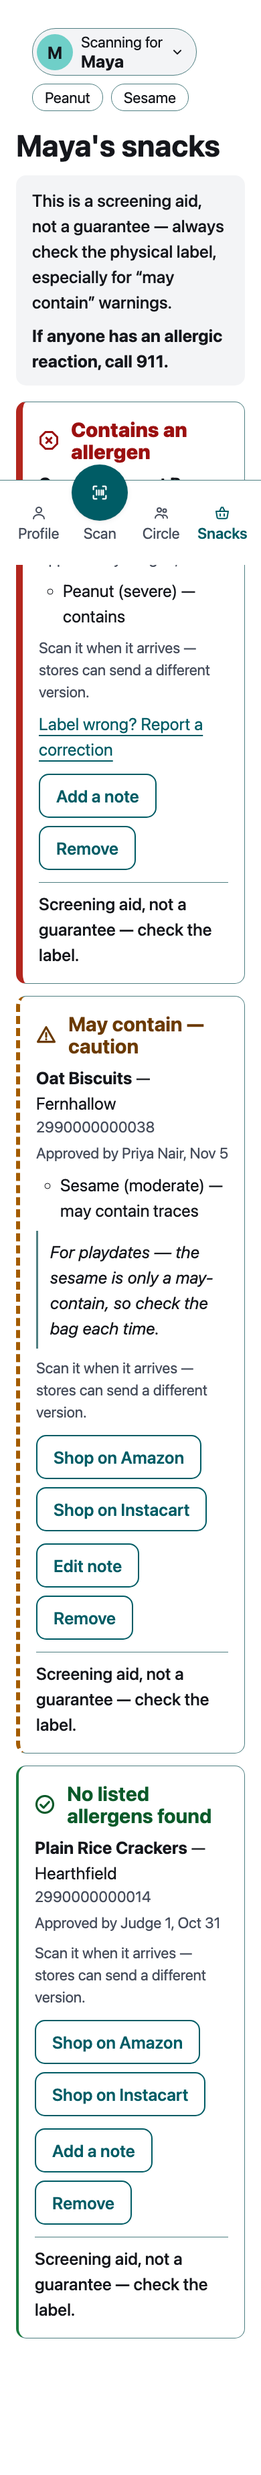
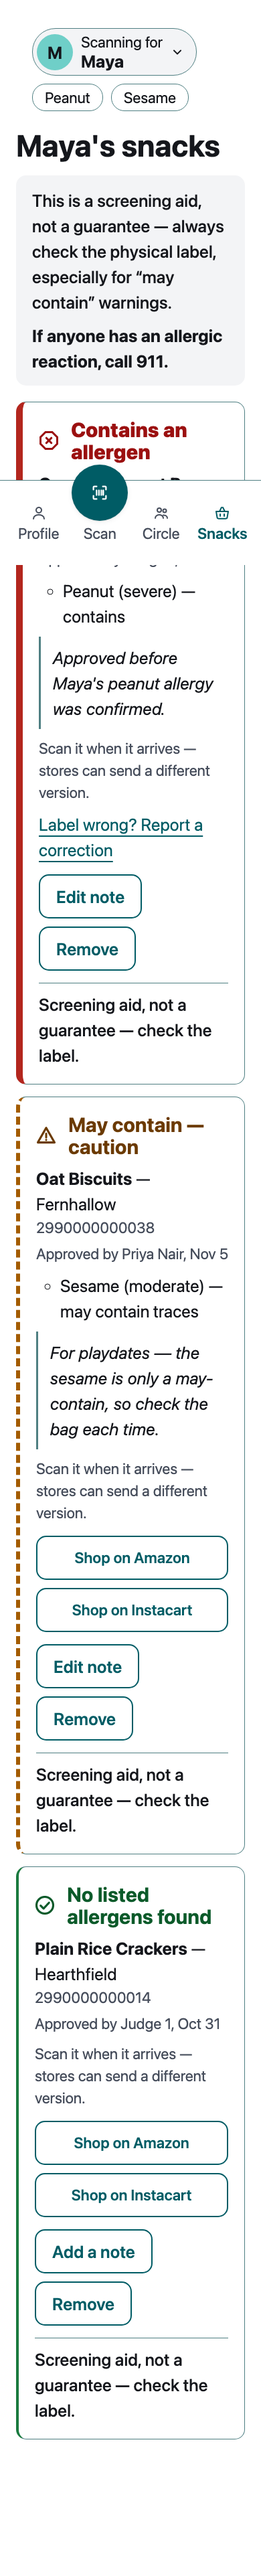
Put the two store links on one row when they fit
Each in its own column at 390 wide and 100% text, one under the other
at 150%, measured in Chrome light and dark. Screenshots from this pass.

diff --git a/client/src/styles.css b/client/src/styles.css
@@ -3913,12 +3913,29 @@ button.scan-tile {
   margin: var(--space-2) 0 0;
 }
 
-.snack-item__shop,
 .snack-item__actions {
   display: flex;
   flex-wrap: wrap;
   gap: var(--space-2);
   margin: var(--space-3) 0 0;
+}
+
+/* The two store links on one row when they fit (390px at 100% text), each in its own column, and one
+   under the other once the text no longer fits — at 150% text the minimum is 150% wider too, since
+   it's in rem. Smaller text and tighter padding than the other outlined buttons, still 44px tall. */
+.snack-item__shop {
+  display: grid;
+  grid-template-columns: repeat(auto-fit, minmax(8.5rem, 1fr));
+  gap: var(--space-2);
+  margin: var(--space-3) 0 0;
+}
+
+.snack-item__shop .button-link {
+  justify-content: center;
+  min-width: 0;
+  padding-inline: var(--space-2);
+  font-size: var(--text-sm);
+  text-align: center;
 }
 
 .snack-item__actions button {

diff --git a/docs/journal.md b/docs/journal.md
@@ -2875,6 +2875,13 @@ local seed's password (shown by the seed, never stored). Screenshots in `docs/ap
   its "Scan a product" link. The profile it made was deleted after.
 - **The note form** (`note-form-390`): Save note / Cancel in place of the item's buttons.
 
+*Later the same day (JT's three changes):* the seeded peanut bar's note reads "Approved before Maya's
+peanut allergy was confirmed." (`bf548f7`); "No allergies" is tested exclusive both ways
+(`8063fd6`); and the two store links share one row when they fit, each in its own column, stacking
+once the text doesn't fit. Measured in Chrome at 390 wide: at 100% text, two 157px buttons on one row
+with nothing overflowing; at 150%, one under the other. Light and dark, no horizontal scroll;
+`list-390`, `list-390-150`, `list-390-dark` and `list-390-dark-150` are from this pass.
+
 **Not checked here:** JT's iPhone (BACKLOG's gate, Sunday noon); what Amazon and Instacart return for
 a query (links only, no claim of a match); a community or circle report landing on a listed product
 (the layers are the scan card's own code, tested on the server; no seeded report falls on a listed
